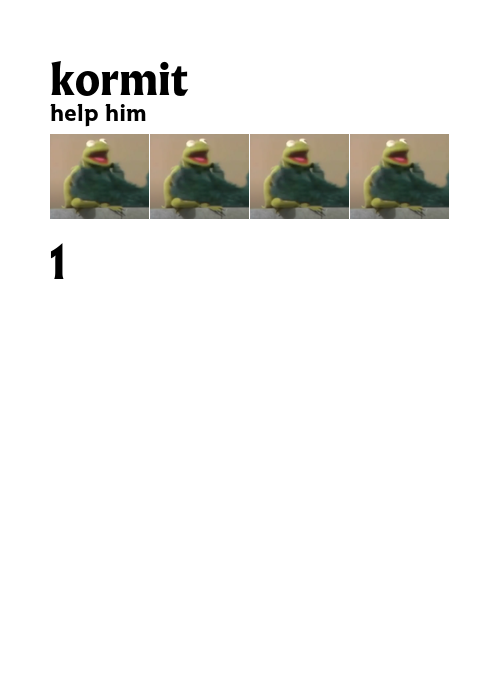
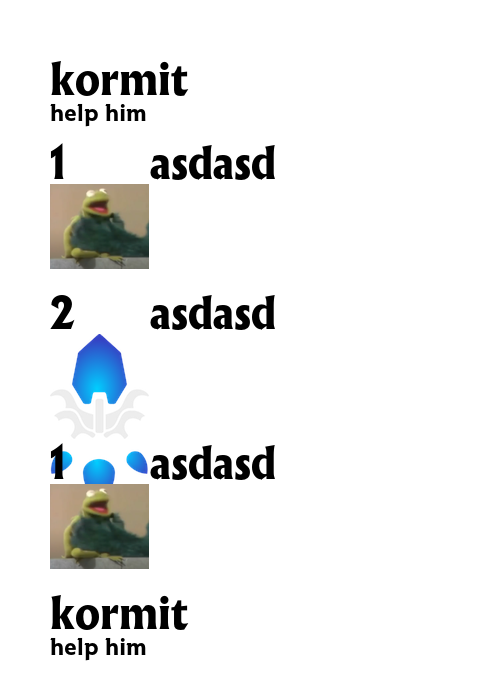
Added RepeatedSection

diff --git a/img_xml/XMLImage.py b/img_xml/XMLImage.py
@@ -1,11 +1,9 @@
 from PIL import Image, ImageDraw, ImageFont, ImageFilter
 from .XMLHandler import XMLHandler
 from .CSSHandler import CSSHandler
-import requests
-import io
 import ast
 
-import time
+import copy
 
 class XMLImage:
     def __init__(self, width, height, xml_path, css_path, background_colour, constants):
@@ -18,11 +16,9 @@ class XMLImage:
         self.xml_handler = XMLHandler(xml_path, constants) 
         self.css_handler = CSSHandler(css_path)
 
-        start = time.time()
         self.img = Image.new('RGBA', (width, height), color = background_colour)
         self.text_layer = Image.new('RGBA', (width, height), color = (255,255,255,0))
         self.draw = ImageDraw.Draw(self.text_layer)
-        print(f"XMLImage.__init__: {time.time() - start}")
     
     def set_variable(self, attr, value):
         if not hasattr(self, attr):
@@ -79,13 +75,38 @@ class XMLImage:
                     imageElement.opacity = value
 
         return imageElement
-
+    
+    def init_repeated(self, elements, element_name, iterable,count):
+        for i in range(len(elements)):
+            if len(elements[i].element.children) == 0:
+                self.__setattr__(element_name,iterable[count])
+                elements[i].data = self.eval_string(elements[i].element.data[0])
+                elements[i].copied = True
+                    
+            self.init_repeated(elements[i].element.children, element_name, iterable,count)
+        return elements
+    
     def init_elements(self, elements, rules):
         for i in range(len(elements)):
             elements[i] = self.process_css(elements[i],rules)
             if elements[i].element.data != None:
-                if len(elements[i].element.data) > 0:
-                    elements[i].element.data[0] = self.eval_string(elements[i].element.data[0])
+                if len(elements[i].element.data) > 0 and not elements[i].copied:
+                    elements[i].data = self.eval_string(elements[i].element.data[0])
+                    
+            if elements[i].element.sectionType == "RepeatedSection":
+                elements[i].iterable = ast.literal_eval(self.eval_string(elements[i].element.iterable[0]))
+                elements[i].element_name = self.eval_string(elements[i].element.element_name[0])
+                self.set_variable(elements[i].element_name,elements[i].iterable[0])
+                
+                ne = []
+                for count in range(len(elements[i].iterable)):
+                    new = None
+                    new = copy.deepcopy(elements[i].element.children)
+                    print(count)
+                    new = self.init_repeated(new,elements[i].element_name,elements[i].iterable,count)
+                    ne += new
+                elements[i].element.children = ne
+            
             elements[i].init_vars()
             self.init_elements(elements[i].element.children, rules)
     
@@ -95,23 +116,24 @@ class XMLImage:
     def process(self, elements, rules):
 
         for imageElement in elements:  
-            
+                                                
             if imageElement.element.element == "Section":
+        
                 imageElement.init_pos(self.draw)
                 self.process(imageElement.element.children, rules)  
-
+                
             if imageElement.element.parent == None:
                 pass
             
-            start = time.time()
             if imageElement.element.element != "Section":
+                        
                 if imageElement.element.element == "title":
-                    text = imageElement.element.data[0]
+                    text = imageElement.data
                     font = ImageFont.truetype(imageElement.font_family, int(imageElement.font_size))
                     self.draw.text((imageElement.x_off,imageElement.y_off), text, font=font, fill=tuple(imageElement.color))
 
                 if imageElement.element.element == "label":
-                    text = imageElement.element.data[0]
+                    text = imageElement.data
                     font = ImageFont.truetype(imageElement.font_family, int(imageElement.font_size))
                     self.draw.text((imageElement.x_off,imageElement.y_off), text, font=font, fill=tuple(imageElement.color))
                 
@@ -131,7 +153,7 @@ class XMLImage:
                 
                 elif imageElement.element.element == "block":
                     self.draw.rectangle((imageElement.x_off,imageElement.y_off, imageElement.x_off + imageElement.img_width, imageElement.y_off + imageElement.img_height), fill=tuple(imageElement.color))
-            print(f"XMLImage.process rendering: {time.time() - start}")
+                
 
     def resize_image(self, img, new_h, new_w):
         width, height = img.size
@@ -145,15 +167,9 @@ class XMLImage:
         elements = self.xml_handler.get_xml_elements()
         rules = self.css_handler.get_css()
 
-        start = time.time()
         self.init_elements(elements, rules)
-        print(f"XMLImage.init_elements: {time.time() - start}")
-        start = time.time()
         self.process(elements, rules)
-        print(f"XMLImage.process: {time.time() - start}")
 
-        start = time.time()
         self.img = Image.alpha_composite(self.img, self.text_layer)
         self.img.save("new_info.png")
-        print(f"Image save: {time.time() - start}")
         return self.img

diff --git a/img_xml/ImageElement.py b/img_xml/ImageElement.py
@@ -3,8 +3,6 @@ import ast
 import io
 from PIL import Image, ImageDraw, ImageFont, ImageFilter
 
-import time
-
 class ImageElement:
     def __init__(self, element, constants):
         self.constants = constants
@@ -33,6 +31,17 @@ class ImageElement:
 
         self.color = self.constants.DEFAULT_COLOUR
         self.opacity = 1
+        
+        self.counter = 1
+        
+        self.x = 0
+        self.y = 0
+        
+        self.data = ""
+        self.iterable = None
+        self.element_name = None
+        self.copied = False
+        
     
     def init_size(self, draw):
         size = self.get_size(draw)
@@ -65,7 +74,7 @@ class ImageElement:
             return width, height
 
         if self.element.element == "title":
-            text = self.element.data[0]
+            text = self.data
 
             if self.font_size == self.constants.DEFAULT_FONT_SIZE:
                 self.font_size = self.constants.HEADER_FONT_SIZE
@@ -77,7 +86,7 @@ class ImageElement:
             return text_size[0] + 10, self.font_size + 10
 
         if self.element.element == "label":
-            text = self.element.data[0]
+            text = self.data
                 
             font = ImageFont.truetype(self.font_family, int(self.font_size))
             text_size = draw.textsize(text, font)
@@ -85,7 +94,7 @@ class ImageElement:
 
         elif self.element.element == "image":
                 
-            path = self.element.data[0]
+            path = self.data
             if len(path) == 0:
                 img = None
                 return 0,0
@@ -114,27 +123,28 @@ class ImageElement:
             self.x_off = self.element.parent.x_off
             self.y_off = self.element.parent.y_off
             self.inline = self.element.parent.o_inline
-
+            
+            if self.element.parent.iterable != None:
+                self.iterable = self.element.parent.iterable
+                self.element_name = self.element.parent.element_name
+            
     def init_pos(self, draw):
-        start = time.time()
-        x = self.x_off + self.left_margin - self.right_margin
-        y = self.y_off + self.top_margin - self.bottom_margin
+        self.x = self.x_off + self.left_margin - self.right_margin
+        self.y = self.y_off + self.top_margin - self.bottom_margin
         for i in range(len(self.element.children)):    
             self.element.children[i].init_vars()
             self.element.children[i].init_size(draw)
 
             if not self.element.children[i].inline:
-                self.element.children[i].y_off = y
-                self.y_off = y
-                y += self.element.children[i].height 
+                self.element.children[i].y_off = self.y
+                self.y += self.element.children[i].height 
+                self.y_off = self.y
             else:
-                self.element.children[i].x_off = x
-                self.x_off = x
-                x += self.element.children[i].width
+                self.element.children[i].x_off = self.x
+                self.x += self.element.children[i].width
+                self.x_off = self.x
             
             self.element.children[i].x_off += self.element.children[i].left_margin - self.element.children[i].right_margin
             self.element.children[i].y_off += self.element.children[i].top_margin - self.element.children[i].bottom_margin
-
-        print(f"ImageElement.init_pos: {time.time() - start}")
         
         

diff --git a/img_xml/XMLHandler.py b/img_xml/XMLHandler.py
@@ -1,7 +1,7 @@
+from typing import Iterable
 from parsel import Selector
 from .Element import Element
 from .ImageElement import ImageElement
-import time
 
 class XMLHandler:
     def __init__(self, path, constants):
@@ -24,8 +24,16 @@ class XMLHandler:
                     self.xml_list.append(ie)
             else: 
                 css_id = node.xpath("@id").getall()
-                n = Element("Section",None,css_id,[],parent_element)
+                iterable = node.xpath("@iterable").getall()
+                element_name = node.xpath("@element").getall()
+                
+                if len(iterable) > 0:
+                    n = Element("Section",None,css_id,[],parent_element,iterable,element_name,"RepeatedSection")
+                else:
+                    n = Element("Section",None,css_id,[],parent_element,iterable,element_name)
+                    
                 ie = ImageElement(n, self.constants)
+                
                 self._get_nodes(node.xpath("child::*"),ie)
                 if parent_element != None:
                     parent_element.element.children.append(ie)
@@ -33,9 +41,7 @@ class XMLHandler:
                     self.xml_list.append(ie)
 
     def get_xml_elements(self):
-        start = time.time()
         selector = Selector(text=self.xml)
         nodes = selector.xpath("//root/*")
         self._get_nodes(nodes, None)
-        print(f"XMLHandler: {time.time() - start}s")
         return self.xml_list

diff --git a/img_xml/Element.py b/img_xml/Element.py
@@ -1,12 +1,16 @@
 class Element:
-    def __init__(self, element, data, _id, children, parent):
+    def __init__(self, element, data, _id, children, parent, iterable = None, element_name = None, sectionType = "Section"):
         self.element = element
         self.data = data
         self.id = _id
         self.children = children
         self.parent = parent
+        
+        self.iterable = iterable
+        self.element_name = element_name
+        self.sectionType = sectionType
 
     def __repr__(self):
         if self.element == "Section":
-            return f"Section C:{len(self.children)}: E: {self.element} D: {self.data} ID: {self.id} P:{self.parent}"
+            return f"Section C:{len(self.children)}: E: {self.element} D: {self.data} ID: {self.id} P:{self.parent} I: {self.iterable} {self.element_name}"
         return f"{self.children}: E: {self.element} D: {self.data} ID: {self.id} P:{self.parent}"

diff --git a/main.py b/main.py
@@ -1,12 +1,16 @@
 from img_xml.XMLImage import XMLImage
 from img_xml.Constants import Constants
 
+class TestObj:
+    def __init__(self, data):
+        self.data = data
+
 class TestImg (XMLImage):
     def __init__(self, width, height, xml_path, css_path, background_colour, constants):
         super().__init__(width, height, xml_path, css_path, background_colour, constants)
 
     def initialise_variables(self):
-        self.set_variable("test_iterable",[1,2,3,4,5])
+        self.set_variable("test_iterable",[[1,"kormit.png"],[2,"aghs_shard.png"],[1,"kormit.png"]])
         pass
 
 if __name__ == "__main__":
